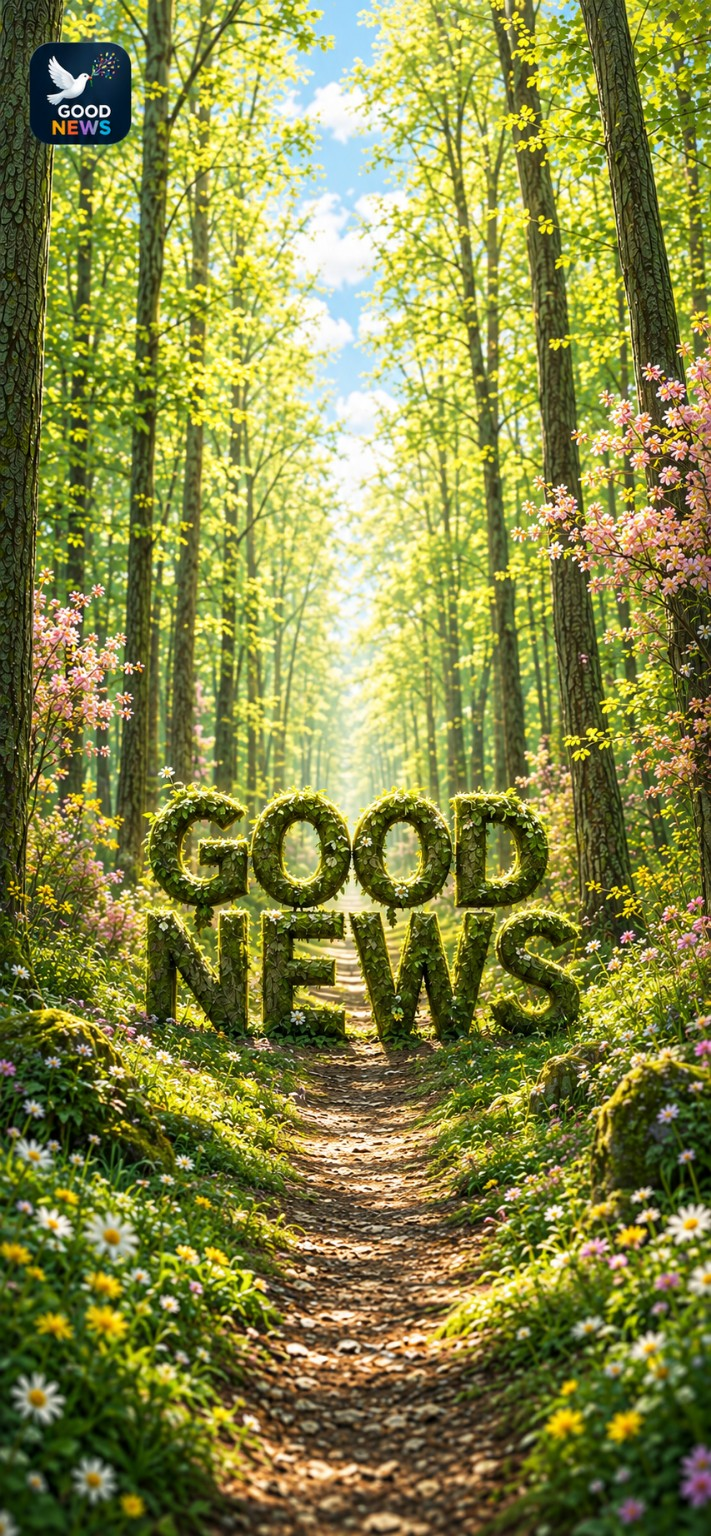
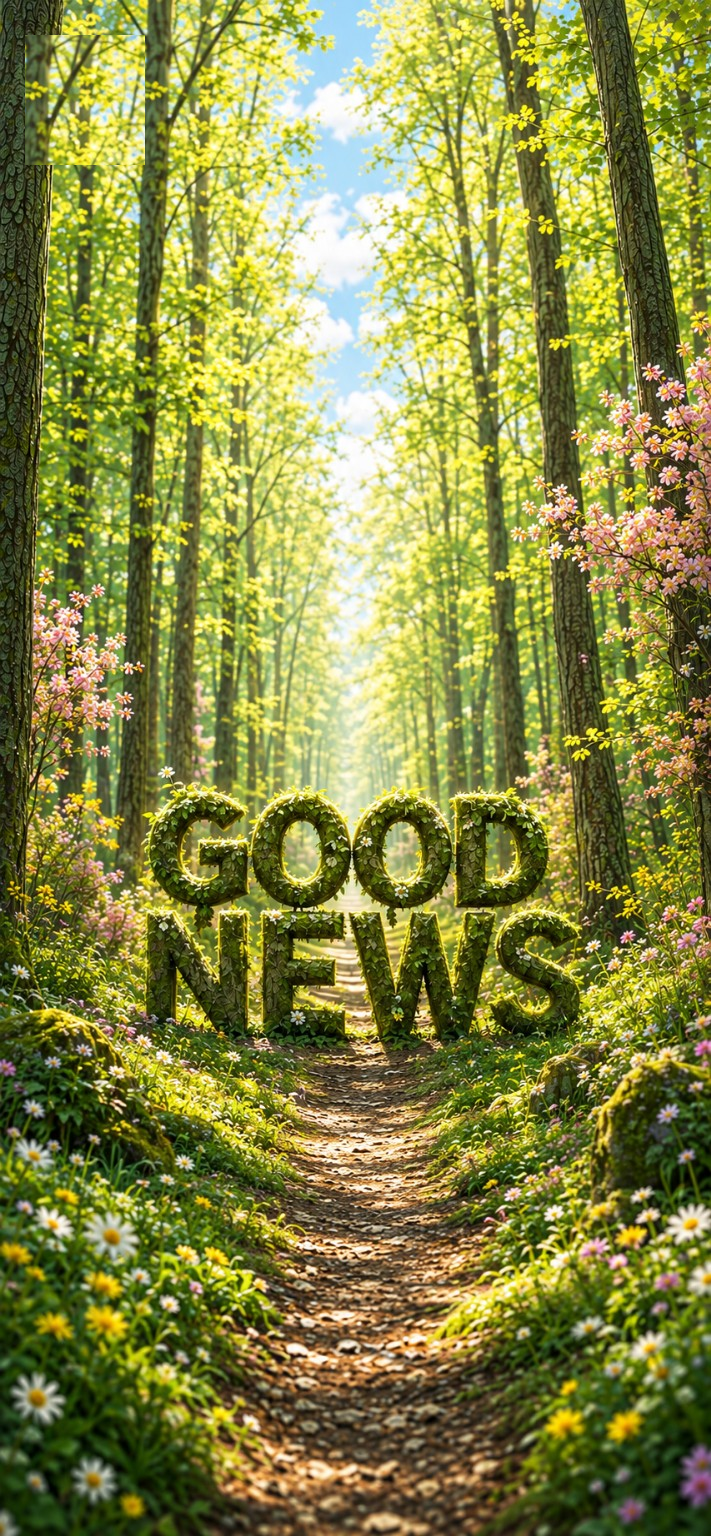
Add files via upload

Changed region(s): [[0.0309, 0.0, 0.2166, 0.125]]

diff --git a/style.css b/style.css
@@ -462,3 +462,29 @@ input[type="range"]{padding:0}
 .image-rights-help{margin:6px 0 0;line-height:1.4}
 .image-source-link{border:0;background:transparent;color:#d7d7dc;padding:2px 0;margin-top:4px;font:inherit;font-size:.78rem;text-decoration:underline;text-decoration-color:#777;text-underline-offset:3px;cursor:pointer;align-self:flex-start}
 .image-source-link:hover{color:#fff}.source-dialog{max-width:440px;width:calc(100% - 28px);border:1px solid #34343a;border-radius:22px;background:#17171a;color:#f5f5f5;padding:18px}.source-dialog::backdrop{background:#000a}.image-source-details{line-height:1.5}.image-source-details p{margin:10px 0}.source-detail-link{color:#fff;text-decoration:underline;text-underline-offset:3px}.draft-image-note{font-size:.85rem;color:#cfcfd4;margin-top:8px}
+
+/* Good News 3.1 – kompakte Kopfzeile / Deckblatt */
+.appbar{align-items:flex-start;padding:max(10px,env(safe-area-inset-top)) 14px 8px;background:transparent}
+.brand-logo{width:30px;height:30px;border-radius:9px}
+.appbar-actions{position:absolute;right:12px;top:max(10px,env(safe-area-inset-top));display:flex;flex-direction:column;gap:5px;align-items:flex-end}
+.icon-btn{width:38px;height:38px}
+
+/* Deckblatt: GOOD NEWS im Motiv bleibt frei; Datum und Tag kompakter darunter */
+.date-slide-bottom{padding:0 48px max(34px,calc(env(safe-area-inset-bottom) + 16px));}
+.date-slide-weekday{font-size:.68rem;letter-spacing:.20em}
+.date-slide-date{margin-top:4px;font-size:clamp(2rem,9vw,3.55rem)}
+.date-slide-year{margin-top:2px;font-size:.82rem}
+.date-slide-special{margin:12px auto 0;max-width:330px;padding:8px 12px;border-radius:15px}
+.date-slide-special span{margin-bottom:3px;font-size:.55rem;letter-spacing:.16em}
+.date-slide-special strong{font-size:.88rem;line-height:1.15}
+.date-slide-hint{margin-top:11px;font-size:.66rem}
+
+/* Nachrichtenfolie: Textquelle links, Bildquelle fest rechts in derselben Zeile */
+.slide-source-row{margin-top:16px;display:flex;align-items:flex-end;justify-content:space-between;gap:14px;width:100%;color:#b8b8bf;font-size:.78rem}
+.slide-source-row .source-line{margin:0;min-width:0;display:block;flex:1}
+.slide-source-row .quiet-link{display:inline-block;max-width:100%;overflow:hidden;text-overflow:ellipsis;white-space:nowrap}
+.slide-source-row .image-source-link{margin:0 0 0 auto;flex:0 0 auto;align-self:auto;white-space:nowrap;text-align:right}
+@media (max-width:520px){
+  .date-slide-bottom{padding-left:34px;padding-right:34px}
+  .slide-source-row{font-size:.72rem;gap:10px}
+}

diff --git a/app.js b/app.js
@@ -206,11 +206,13 @@ function buildSlide(item, index, total) {
         <button class="slide-action share-btn" data-id="${item.id}">↗ Teilen</button>
       </div>
 
-      ${item.image_url ? `<button class="image-source-link" type="button" data-image-source-id="${item.id}">${item.image_kind === "ai" ? "ⓘ KI-Illustration" : "ⓘ Bildquelle"}</button>` : ""}
-      <div class="source-line source-line-simple">
-        ${primarySource
-          ? `<a class="quiet-link" href="${esc(primarySource.url)}" target="_blank" rel="noopener noreferrer">Quelle: ${esc(primarySource.name)}</a>`
-          : `<span>Good News</span>`}
+      <div class="slide-source-row">
+        <div class="source-line source-line-simple">
+          ${primarySource
+            ? `<a class="quiet-link" href="${esc(primarySource.url)}" target="_blank" rel="noopener noreferrer">Quelle: ${esc(primarySource.name)}</a>`
+            : `<span>Good News</span>`}
+        </div>
+        ${item.image_url ? `<button class="image-source-link" type="button" data-image-source-id="${item.id}">${item.image_kind === "ai" ? "ⓘ KI-Illustration" : "ⓘ Bildquelle"}</button>` : ""}
       </div>
     </div>`;
   article.querySelector(".fav-btn").onclick = (e) => {

diff --git a/index.html b/index.html
@@ -7,7 +7,7 @@
   <meta name="description" content="Good News – Jeden Tag passiert auch Gutes.">
   <title>Good News</title>
   <link rel="manifest" href="manifest.json">
-  <link rel="stylesheet" href="style.css?v=32">
+  <link rel="stylesheet" href="style.css?v=33">
 </head>
 <body>
   <header class="appbar">
